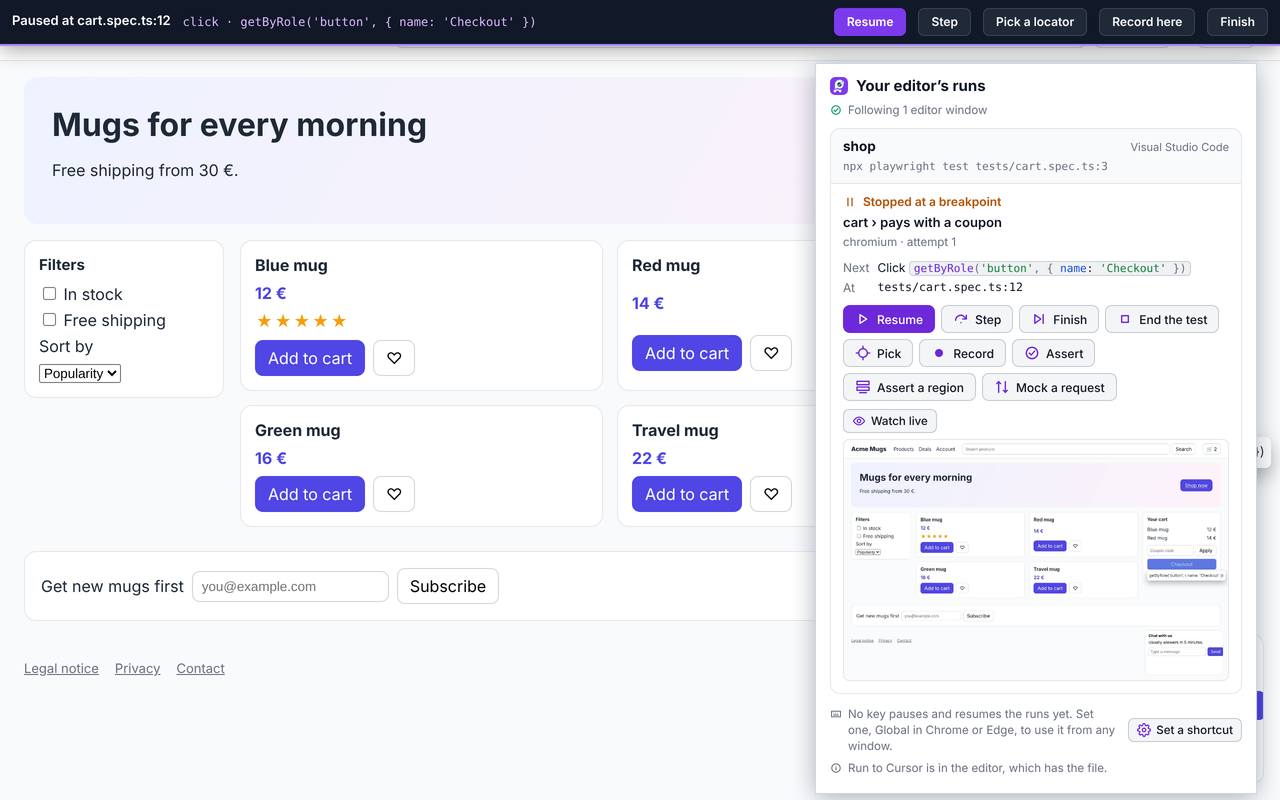
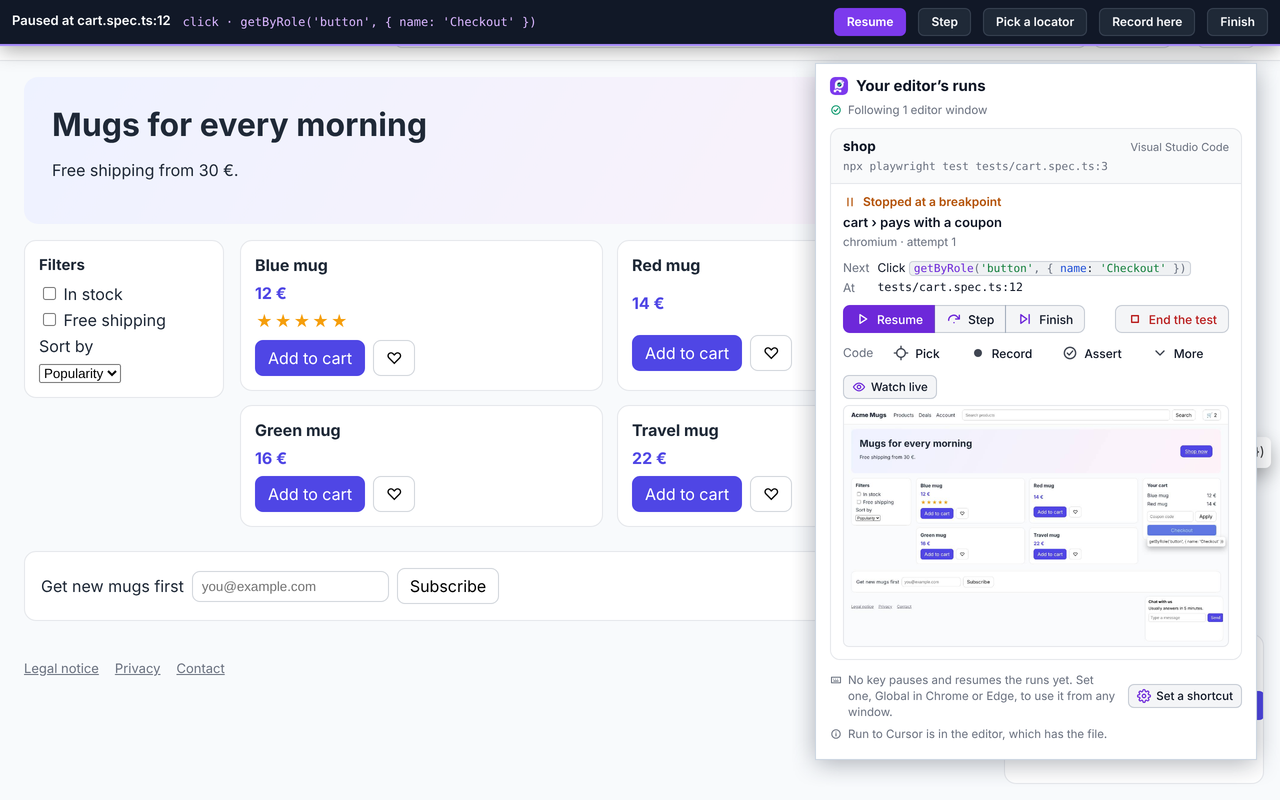
feat(extension): group a stop's controls in the Runs window, the code actions under Code and More
At a stop, Resume, Step and Finish are one joined group, Resume the only filled button, and End the
test stands apart at the row's end in the red-text tone. The code a stop can write follows under a
Code label as quiet buttons; with all five on the row, Assert a region and Mock a request fold under
More, which stays open until the test goes on and while a request list shows. A card at a stop
drops from four rows of buttons to two.

Claude-Session: https://claude.ai/code/session_01ADXAbeVo5hXs63eeexKcKH

diff --git a/apps/extension/src/runs/main.ts b/apps/extension/src/runs/main.ts
@@ -1759,23 +1759,44 @@ const CONTROLS = {
   resume: { label: 'runs_resume', title: 'runs_resumeTitle', icon: 'play', tone: 'primary' },
   step: { label: 'runs_step', title: 'runs_stepTitle', icon: 'skip' },
   finish: { label: 'runs_finish', title: 'runs_finishTitle', icon: 'next' },
-  end: { label: 'runs_end', title: 'runs_endTitle', icon: 'stop' },
-  'give-up': { label: 'runs_end', title: 'runs_giveUpTitle', icon: 'stop' },
-  pick: { label: 'runs_pick', title: 'runs_pickTitle', icon: 'pick' },
-  record: { label: 'runs_record', title: 'runs_recordTitle', icon: 'record' },
-  assert: { label: 'runs_assert', title: 'runs_assertTitle', icon: 'check-circle' },
-  'assert-region': { label: 'runs_assertRegion', title: 'runs_assertRegionTitle', icon: 'layers' },
-  mock: { label: 'runs_mock', title: 'runs_mockTitle', icon: 'network' },
+  end: { label: 'runs_end', title: 'runs_endTitle', icon: 'stop', tone: 'remove' },
+  'give-up': { label: 'runs_end', title: 'runs_giveUpTitle', icon: 'stop', tone: 'remove' },
+  pick: { label: 'runs_pick', title: 'runs_pickTitle', icon: 'pick', tone: 'ghost' },
+  record: { label: 'runs_record', title: 'runs_recordTitle', icon: 'record', tone: 'ghost' },
+  assert: { label: 'runs_assert', title: 'runs_assertTitle', icon: 'check-circle', tone: 'ghost' },
+  'assert-region': { label: 'runs_assertRegion', title: 'runs_assertRegionTitle', icon: 'layers', tone: 'ghost' },
+  mock: { label: 'runs_mock', title: 'runs_mockTitle', icon: 'network', tone: 'ghost' },
   pause: { label: 'runs_pause', title: 'runs_pauseTitle', icon: 'pause' },
 } as const satisfies Record<
   Exclude<RunsWhat, 'image' | 'requests' | 'view' | 'input' | 'pick-at' | 'share' | 'watch'>,
-  { label: string; title: string; icon: IconName; tone?: 'primary' }
+  { label: string; title: string; icon: IconName; tone?: 'primary' | 'remove' | 'ghost' }
 >;
 
 type Control = keyof typeof CONTROLS;
 
 /** The controls that steer the test, on a row of their own above the code a stop can write. */
 const STEERING: ReadonlySet<Control> = new Set(['resume', 'step', 'finish', 'end', 'give-up', 'pause']);
+
+/** The controls that move a stopped test on, joined in one group at the start of the steering row. */
+const JOINED: ReadonlySet<Control> = new Set(['resume', 'step', 'finish']);
+
+/**
+ * The code a stop can write that folds under More, where the row holds all five actions, shown while More is open or
+ * its list of requests is.
+ */
+const FOLDED: ReadonlySet<Control> = new Set(['assert-region', 'mock']);
+
+/** How many of the code a stop can write show before More folds some: fewer stay on the row. */
+const FOLD_FROM = 5;
+
+/** The stops whose More is open, by worker and stop (`since`), the latest `MORE_KEPT`: a new stop folds them again. */
+const moreOpen = new Set<string>();
+const MORE_KEPT = 50;
+
+/** Whether a worker's More shows what it folds at the stop `since`: opened, or its list of requests open. */
+function moreShown(key: string, since: string | null): boolean {
+  return moreOpen.has(`${key}|${since}`) || (since !== null && requestLists.get(key)?.since === since);
+}
 
 /**
  * The controls a worker takes now: at a stop, Resume, Step and Finish (Resume alone where the test failed, which ends
@@ -1807,8 +1828,10 @@ interface RunningLane {
 }
 
 /**
- * A worker's buttons: those that steer the test, then the code a stop can write. `held` are shown, held, saying to
- * watch first; `lane` adds Pause and watch and Watch after Pause while the worker runs.
+ * A worker's buttons: those that steer the test, Resume, Step and Finish joined in one group and End the test apart at
+ * the row's end; then the code a stop can write, under its label, Assert a region and Mock a request folded under More
+ * where the row holds all five.
+ * `held` are shown, held, saying to watch first; `lane` adds Pause and watch and Watch after Pause while the worker runs.
  */
 function renderActions(
   run: RunsRun,
@@ -1820,11 +1843,15 @@ function renderActions(
 ): HTMLElement {
   const key = workerKey(run.hub, run.session.ref, worker);
   const since = stop?.since ?? null;
-  const steering = element('div', 'piwi-actions');
-  const code = element('div', 'piwi-actions');
+  const steering = element('div', 'piwi-actions steer');
+  const joined = element('div', 'joined');
+  const code = element('div', 'piwi-actions code');
   code.setAttribute('role', 'group');
   code.setAttribute('aria-label', t('runs_codeActions'));
-  for (const what of controls) {
+  const label = element('span', 'row-label', t('runs_codeLabel'));
+  label.setAttribute('aria-hidden', 'true');
+  const folded: HTMLButtonElement[] = [];
+  const button = (what: Control): HTMLButtonElement => {
     const look = CONTROLS[what];
     const waits = held.includes(what);
     // Mock a request opens the list of the stop's requests; the other controls send themselves.
@@ -1844,8 +1871,37 @@ function renderActions(
     });
     made.dataset.focus = `${key}|${what}`;
     if (waits) unavailable(made);
-    (STEERING.has(what) ? steering : code).append(made);
+    return made;
+  };
+  const folds = controls.filter((what) => !STEERING.has(what)).length >= FOLD_FROM;
+  for (const what of controls) {
+    const made = button(what);
+    if (JOINED.has(what)) joined.append(made);
+    else if (STEERING.has(what)) steering.append(made);
+    else if (folds && FOLDED.has(what)) folded.push(made);
+    else code.append(made);
   }
+  if (joined.childElementCount > 0) steering.prepend(joined);
+  // End the test, apart from the controls that move the test on.
+  for (const end of steering.querySelectorAll<HTMLElement>(':scope > [data-tone="remove"]')) end.dataset.apart = '';
+  if (folded.length > 0) {
+    const fold = `${key}|${since}`;
+    const open = moreShown(key, since);
+    const more = makeButton(
+      t('runs_more'),
+      () => {
+        if (moreOpen.has(fold)) moreOpen.delete(fold);
+        else moreOpen.add(fold);
+        if (moreOpen.size > MORE_KEPT) moreOpen.delete(moreOpen.values().next().value!);
+        render();
+      },
+      { icon: 'chevron-down', tone: 'ghost', title: folded.map((made) => made.textContent ?? '').join(', ') },
+    );
+    more.dataset.focus = `${key}|more`;
+    more.setAttribute('aria-expanded', String(open));
+    code.append(more, ...(open ? folded : []));
+  }
+  if (code.childElementCount > 0) code.prepend(label);
   if (lane?.pauseWatch) {
     const pauseWatch = makeButton(
       t('runs_pauseWatch'),
@@ -2105,7 +2161,8 @@ function renderWorker(
     if (controls.length > 0 || running) {
       // Drawn again for another stop, so each control answers the stop shown; a command on its way leaves them be.
       const failure = stop?.reason === 'failure';
-      const actions = part(`${key}|actions`, { controls, since, failure, untilWatched, running }, () =>
+      const more = moreShown(key, since);
+      const actions = part(`${key}|actions`, { controls, since, failure, untilWatched, running, more }, () =>
         renderActions(run, worker, controls, stop, untilWatched, running),
       );
       markBusy(actions.querySelectorAll('button'), held);

diff --git a/apps/extension/tests/e2e/runs.spec.ts b/apps/extension/tests/e2e/runs.spec.ts
@@ -556,7 +556,8 @@ test.describe('code from a stop', () => {
         await expect(card.getByText('cart › pays')).toBeVisible();
         stopAtCheckout(run.worker, 1);
         await expect(card.getByText('Stopped at a breakpoint')).toBeVisible();
-        // The test's controls, then the code this stop can write, in a group of their own.
+        // The test's controls, then the code this stop can write, in a group of their own, Assert a region and Mock a
+        // request folded under More.
         await expect(card.locator('.controls button')).toHaveText([
           'Resume',
           'Step',
@@ -565,13 +566,19 @@ test.describe('code from a stop', () => {
           'Pick',
           'Record',
           'Assert',
-          'Assert a region',
-          'Mock a request',
+          'More',
         ]);
-        await expect(card.getByRole('group', { name: 'Code from this stop' }).getByRole('button')).toHaveText([
+        const code = card.getByRole('group', { name: 'Code from this stop' });
+        const more = code.getByRole('button', { name: 'More' });
+        await expect(more).toHaveAttribute('aria-expanded', 'false');
+        await expect(more).toHaveAttribute('title', 'Assert a region, Mock a request');
+        await more.click();
+        await expect(more).toHaveAttribute('aria-expanded', 'true');
+        await expect(code.getByRole('button')).toHaveText([
           'Pick',
           'Record',
           'Assert',
+          'More',
           'Assert a region',
           'Mock a request',
         ]);
@@ -662,6 +669,7 @@ test.describe('code from a stop', () => {
       try {
         const card = liveRun(runs);
         stopAtCheckout(run.worker, 1);
+        await card.getByRole('button', { name: 'More' }).click();
         const mock = card.getByRole('button', { name: 'Mock a request' });
         await expect(mock).toHaveAttribute('aria-expanded', 'false');
         await mock.focus();
@@ -794,6 +802,7 @@ test.describe('code from a stop', () => {
       try {
         const card = liveRun(runs);
         stopAtCheckout(run.worker, 1);
+        await card.getByRole('button', { name: 'More' }).click();
         const mock = card.getByRole('button', { name: 'Mock a request' });
         await mock.click();
         // No response kept yet: the list says so.
@@ -835,7 +844,8 @@ test.describe('code from a stop', () => {
         await expect(card.getByText('Stopped at a breakpoint')).toBeVisible();
         await expect(list).toHaveCount(0);
 
-        // An answer that comes once the test went on from its stop shows nothing.
+        // An answer that comes once the test went on from its stop shows nothing. The new stop folds More again.
+        await card.getByRole('button', { name: 'More' }).click();
         await mock.click();
         const late = await waitFor(() =>
           run.worker.heard.find((m) => m.type === 'request' && m.what === 'requests' && m.stop === 2),
@@ -875,14 +885,7 @@ test.describe('code from a stop', () => {
         expect(await card.locator('.stop .error').innerText()).toBe(FAILURE_ERROR);
         await expect(runs.locator('#announce')).toHaveText('cart › pays failed at tests/checkout.spec.ts:5.');
         // No Step nor Finish: whatever answers it, the test ends as it failed.
-        await expect(card.locator('.controls button')).toHaveText([
-          'Resume',
-          'Pick',
-          'Record',
-          'Assert',
-          'Assert a region',
-          'Mock a request',
-        ]);
+        await expect(card.locator('.controls button')).toHaveText(['Resume', 'Pick', 'Record', 'Assert', 'More']);
         const resume = card.getByRole('button', { name: 'Resume' });
         await expect(resume).toHaveAttribute('title', 'Let the test end as it failed');
         await resume.click();
@@ -969,8 +972,10 @@ test.describe('code from a stop', () => {
           'Step',
           'Finish',
           'End the test',
-          ...WATCH_TO_USE,
-          'Mock a request',
+          'Pick',
+          'Record',
+          'Assert',
+          'More',
         ]);
         await expectWatchToUse(card);
       } finally {
@@ -985,8 +990,13 @@ test.describe('code from a stop', () => {
 /** The actions in the test's window a headless stop takes once watched. */
 const WATCH_TO_USE = ['Pick', 'Record', 'Assert', 'Assert a region'];
 
-/** Pick, Record and the checks at a headless stop the window does not watch: held, each saying to watch first. */
+/**
+ * Pick, Record and the checks at a headless stop the window does not watch: held, each saying to watch first, Assert a
+ * region under More.
+ */
 async function expectWatchToUse(card: Locator): Promise<void> {
+  const more = card.getByRole('button', { name: 'More' });
+  if ((await more.getAttribute('aria-expanded')) === 'false') await more.click();
   for (const name of WATCH_TO_USE) {
     const button = card.getByRole('button', { name, exact: true });
     await expect(button).toHaveAttribute('aria-disabled', 'true');
@@ -1054,8 +1064,10 @@ test.describe('the live view', () => {
           'Step',
           'Finish',
           'End the test',
-          ...WATCH_TO_USE,
-          'Mock a request',
+          'Pick',
+          'Record',
+          'Assert',
+          'More',
         ]);
         await expectWatchToUse(card);
         await card.getByRole('button', { name: 'Pick', exact: true }).click({ force: true });
@@ -1081,7 +1093,7 @@ test.describe('the live view', () => {
         await expect(
           card.getByText('Your clicks, the wheel and your keys on the view go to the test’s page.', { exact: false }),
         ).toBeVisible();
-        // Watched, the headless stop takes the actions in its page, driven through the view.
+        // Watched, the headless stop takes the actions in its page, driven through the view; More stays open.
         await expect(buttons).toHaveText([
           'Resume',
           'Step',
@@ -1090,6 +1102,7 @@ test.describe('the live view', () => {
           'Pick',
           'Record',
           'Assert',
+          'More',
           'Assert a region',
           'Mock a request',
         ]);
@@ -1125,7 +1138,11 @@ test.describe('the live view', () => {
           'Step',
           'Finish',
           'End the test',
-          ...WATCH_TO_USE,
+          'Pick',
+          'Record',
+          'Assert',
+          'More',
+          'Assert a region',
           'Mock a request',
         ]);
         await expectWatchToUse(card);
@@ -1715,8 +1732,10 @@ test.describe('watching a running test', () => {
           'Step',
           'Finish',
           'End the test',
-          ...WATCH_TO_USE,
-          'Mock a request',
+          'Pick',
+          'Record',
+          'Assert',
+          'More',
         ]);
         await expect(card.locator('.controls [aria-disabled]')).toHaveCount(0);
         sendLaneFrame(run.worker, 'pays', 1, after);

diff --git a/apps/extension/runs.html b/apps/extension/runs.html
@@ -415,6 +415,33 @@
         gap: 6px;
         margin-top: 8px;
       }
+      /* Resume, Step and Finish, one group: their borders meet. */
+      .controls .joined {
+        display: inline-flex;
+      }
+      .controls .joined > .piwi-btn:not(:first-child) {
+        margin-left: -1px;
+        border-top-left-radius: 0;
+        border-bottom-left-radius: 0;
+      }
+      .controls .joined > .piwi-btn:not(:last-child) {
+        border-top-right-radius: 0;
+        border-bottom-right-radius: 0;
+      }
+      .controls .joined > .piwi-btn:focus-visible {
+        position: relative;
+        z-index: 1;
+      }
+      /* End the test, apart from the controls that move the test on. */
+      .controls [data-apart] {
+        margin-left: auto;
+      }
+      /* The code row's label, before its quiet buttons. */
+      .controls .row-label {
+        color: var(--muted);
+        font-size: 12px;
+        margin-right: 2px;
+      }
       /* A test held where it failed: a stop, not a breakpoint. */
       .worker[data-failed] .state {
         color: var(--error);

diff --git a/apps/extension/src/shared/icons.ts b/apps/extension/src/shared/icons.ts
@@ -22,6 +22,7 @@ export const ICONS = {
   check: ['M5 12.25l4.5 4.5L19 7.25'],
   close: ['M6.5 6.5l11 11', 'M17.5 6.5l-11 11'],
   plus: ['M12 5v14', 'M5 12h14'],
+  'chevron-down': ['M6 9l6 6 6-6'],
   trash: [
     'M4 7h16',
     'M10 11v6',

diff --git a/apps/docs/features/runs-window.md b/apps/docs/features/runs-window.md
@@ -42,8 +42,8 @@ its place: [Share a run live](./share-live).
 
 ## Code from a stop
 
-The other actions send code to the editor, which writes it at the stopped line, when its Piwi extension and your
-reporter take them. **Pick** and **Record** start the pause bar's **Pick a locator** and **Record here**, **Assert**
+The other actions, under **Code** (the last two in **More** once five show), send code to the editor, which
+writes it at the stopped line, when its Piwi extension and your reporter take them. **Pick** and **Record** start the pause bar's **Pick a locator** and **Record here**, **Assert**
 the recorder's **Check an element**, and **Assert a region** a pick whose ARIA snapshot becomes `toMatchAriaSnapshot`.
 They run in the test's page: where the pause bar shows, or, at a headless stop, once you [watch it](#watch-live),
 driven through the view; until then they show held, saying **Watch to use**. **Mock a request** lists the page's fetch
@@ -74,7 +74,7 @@ At a headless stop, nobody sees the test's page. Watched, the picker, the record
 in the view, and you answer them there as in a headed browser; their code reaches the editor the same way.
 
 <figure>
-  <img src="/screenshots/picker-runs-live.png" width="488" alt="The Runs window at a headless stop, watching the shop page live: Watch live pressed, the Live badge on the view, the picker over the page, and Pick, Record, Assert and Assert a region among the controls">
+  <img src="/screenshots/picker-runs-live.png" width="488" alt="The Runs window at a headless stop, watching the shop page live: Watch live pressed, the Live badge on the view, the picker over the page, with Resume, Step and Finish in one group, End the test apart, and Pick, Record, Assert and More under Code">
   <figcaption>A headless test's page watched live, with Pick started in it.</figcaption>
 </figure>
 
